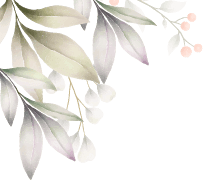
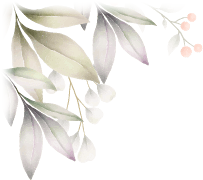
fix(layout): lock scroll on cover, feather flower borders to eliminate cut lines, scale down floral sizes, and apply luxury-01 widget entrance effects

diff --git a/app/components/RightSidebar.tsx b/app/components/RightSidebar.tsx
@@ -35,43 +35,47 @@ const InstagramIcon = ({ className = "w-3.5 h-3.5" }: { className?: string }) =>
   </svg>
 );
 
-// Reusable 4-Corner Floral Leaves matching the.invisimple.id/s01 exactly
-const SectionFloralCorners = () => (
+// Reusable 4-Corner Floral Leaves (Feathered edge, negative corner bleed, scaled down)
+const SectionFloralCorners = ({ 
+  size = "w-14 sm:w-16 md:w-18" 
+}: { 
+  size?: string;
+}) => (
   <>
-    {/* Top-Left: natural orientation with swaying animation */}
-    <div className="absolute top-0 left-0 pointer-events-none z-10 select-none animate-floral-tl">
+    {/* Top-Left: natural orientation with gentle anchored swaying */}
+    <div className="absolute -top-1.5 -left-1.5 pointer-events-none z-10 select-none animate-floral-tl">
       <img 
         src="/template/assets/asset-01-01.png" 
         alt="" 
         aria-hidden="true"
-        className="w-20 sm:w-24 md:w-28 pointer-events-none select-none" 
+        className={`${size} pointer-events-none select-none`} 
       />
     </div>
-    {/* Top-Right: flipped horizontally with swaying animation */}
-    <div className="absolute top-0 right-0 pointer-events-none z-10 select-none animate-floral-tr">
+    {/* Top-Right: flipped horizontally with gentle anchored swaying */}
+    <div className="absolute -top-1.5 -right-1.5 pointer-events-none z-10 select-none animate-floral-tr">
       <img 
         src="/template/assets/asset-01-01.png" 
         alt="" 
         aria-hidden="true"
-        className="w-20 sm:w-24 md:w-28 scale-x-[-1] pointer-events-none select-none" 
+        className={`${size} scale-x-[-1] pointer-events-none select-none`} 
       />
     </div>
-    {/* Bottom-Left: flipped vertically with swaying animation */}
-    <div className="absolute bottom-0 left-0 pointer-events-none z-10 select-none animate-floral-bl">
+    {/* Bottom-Left: flipped vertically with gentle anchored swaying */}
+    <div className="absolute -bottom-1.5 -left-1.5 pointer-events-none z-10 select-none animate-floral-bl">
       <img 
         src="/template/assets/asset-01-01.png" 
         alt="" 
         aria-hidden="true"
-        className="w-20 sm:w-24 md:w-28 scale-y-[-1] pointer-events-none select-none" 
+        className={`${size} scale-y-[-1] pointer-events-none select-none`} 
       />
     </div>
-    {/* Bottom-Right: flipped horizontally and vertically with swaying animation */}
-    <div className="absolute bottom-0 right-0 pointer-events-none z-10 select-none animate-floral-br">
+    {/* Bottom-Right: flipped horizontally and vertically with gentle anchored swaying */}
+    <div className="absolute -bottom-1.5 -right-1.5 pointer-events-none z-10 select-none animate-floral-br">
       <img 
         src="/template/assets/asset-01-01.png" 
         alt="" 
         aria-hidden="true"
-        className="w-20 sm:w-24 md:w-28 scale-x-[-1] scale-y-[-1] pointer-events-none select-none" 
+        className={`${size} scale-x-[-1] scale-y-[-1] pointer-events-none select-none`} 
       />
     </div>
   </>
@@ -283,6 +287,21 @@ export default function RightSidebar({
     };
   }, [isOpened]);
 
+  // Lock scroll completely on body & window while invitation is not yet opened
+  useEffect(() => {
+    if (!isOpened) {
+      document.body.style.overflow = "hidden";
+      document.documentElement.style.overflow = "hidden";
+    } else {
+      document.body.style.overflow = "";
+      document.documentElement.style.overflow = "";
+    }
+    return () => {
+      document.body.style.overflow = "";
+      document.documentElement.style.overflow = "";
+    };
+  }, [isOpened]);
+
   // Open invitation handler with smooth slide-up matching s01 closeCover()
   const handleOpenInvitation = () => {
     setIsOpened(true);
@@ -384,7 +403,9 @@ export default function RightSidebar({
   return (
     <div 
       ref={containerRef}
-      className="relative w-full md:w-[40%] lg:w-[35%] xl:w-[32%] min-h-[100dvh] md:h-[100dvh] md:overflow-y-auto no-scrollbar bg-[#F4ECE3] text-[#3C2A21] select-none"
+      className={`relative w-full md:w-[40%] lg:w-[35%] xl:w-[32%] h-[100dvh] ${
+        isOpened ? "overflow-y-auto" : "overflow-hidden"
+      } no-scrollbar bg-[#F4ECE3] text-[#3C2A21] select-none`}
       style={{
         backgroundImage: "url('/template/assets/eks-01-bg-01.jpg')",
         backgroundSize: "cover",
@@ -420,33 +441,33 @@ export default function RightSidebar({
           <div className="absolute inset-0 bg-gradient-to-t from-[#F4ECE3] via-[#F4ECE3]/35 to-transparent" />
         </div>
 
-        {/* Swaying Floral Corners on Cover (Top & Bottom) */}
-        <div className="absolute top-0 left-0 pointer-events-none z-10 select-none animate-floral-tl">
+        {/* Swaying Floral Corners on Cover (Top & Bottom) - Compact, Anchored, Feathered */}
+        <div className="absolute -top-1 -left-1 pointer-events-none z-10 select-none animate-floral-tl">
           <img 
             src="/template/assets/asset-01-01.png" 
             alt="Floral" 
-            className="w-24 sm:w-28 pointer-events-none select-none" 
+            className="w-14 sm:w-16 pointer-events-none select-none" 
           />
         </div>
-        <div className="absolute top-0 right-0 pointer-events-none z-10 select-none animate-floral-tr">
+        <div className="absolute -top-1 -right-1 pointer-events-none z-10 select-none animate-floral-tr">
           <img 
             src="/template/assets/asset-01-01.png" 
             alt="Floral" 
-            className="w-24 sm:w-28 scale-x-[-1] pointer-events-none select-none" 
+            className="w-14 sm:w-16 scale-x-[-1] pointer-events-none select-none" 
           />
         </div>
-        <div className="absolute bottom-0 left-0 pointer-events-none z-10 select-none animate-floral-bl">
+        <div className="absolute -bottom-1 -left-1 pointer-events-none z-10 select-none animate-floral-bl">
           <img 
             src="/template/assets/asset-01-01.png" 
             alt="Floral" 
-            className="w-28 sm:w-32 scale-y-[-1] pointer-events-none select-none" 
+            className="w-16 sm:w-18 scale-y-[-1] pointer-events-none select-none" 
           />
         </div>
-        <div className="absolute bottom-0 right-0 pointer-events-none z-10 select-none animate-floral-br">
+        <div className="absolute -bottom-1 -right-1 pointer-events-none z-10 select-none animate-floral-br">
           <img 
             src="/template/assets/asset-01-01.png" 
             alt="Floral" 
-            className="w-28 sm:w-32 scale-x-[-1] scale-y-[-1] pointer-events-none select-none" 
+            className="w-16 sm:w-18 scale-x-[-1] scale-y-[-1] pointer-events-none select-none" 
           />
         </div>
 
@@ -488,7 +509,9 @@ export default function RightSidebar({
       {/* ========================================================
           MAIN INVITATION CONTENT (Revealed underneath smoothly)
          ======================================================== */}
-      <div className="relative z-10 space-y-12 pb-32 pt-2">
+      <div className={`relative z-10 space-y-12 pb-32 pt-2 transition-opacity duration-1000 ${
+        isOpened ? "opacity-100" : "hidden pointer-events-none"
+      }`}>
 
         {/* 1. HERO / SAVE THE DATE SECTION */}
         <section id="hero" className="relative min-h-[100dvh] flex flex-col items-center justify-between px-6 pt-12 pb-16 text-center overflow-hidden">

diff --git a/app/[[...name]]/page.tsx b/app/[[...name]]/page.tsx
@@ -164,40 +164,40 @@ export default async function Home({ params, searchParams }: Props) {
           style={{ backgroundImage: "url('/template/assets/eks-01-bg-01.jpg')" }}
         />
 
-        {/* 4 Precise Floral Leaf Corners (100% matched to the.invisimple.id/s01) */}
+        {/* 4 Corner Floral Leaves (Feathered edge, negative corner bleed, scaled down) */}
         {/* Top-Left: natural orientation */}
-        <div className="absolute top-0 left-0 pointer-events-none z-10 select-none animate-floral-tl">
+        <div className="absolute -top-2 -left-2 pointer-events-none z-10 select-none animate-floral-tl">
           <img 
             src="/template/assets/asset-01-01.png" 
             alt="Floral" 
-            className="w-48 md:w-56 lg:w-64 xl:w-72 h-auto object-contain select-none" 
+            className="w-32 md:w-36 lg:w-40 xl:w-44 h-auto object-contain select-none" 
           />
         </div>
 
         {/* Top-Right: flipped horizontally */}
-        <div className="absolute top-0 right-0 pointer-events-none z-10 select-none animate-floral-tr">
+        <div className="absolute -top-2 -right-2 pointer-events-none z-10 select-none animate-floral-tr">
           <img 
             src="/template/assets/asset-01-01.png" 
             alt="Floral" 
-            className="w-48 md:w-56 lg:w-64 xl:w-72 h-auto object-contain select-none scale-x-[-1]" 
+            className="w-32 md:w-36 lg:w-40 xl:w-44 h-auto object-contain select-none scale-x-[-1]" 
           />
         </div>
 
         {/* Bottom-Left: flipped vertically */}
-        <div className="absolute bottom-0 left-0 pointer-events-none z-10 select-none animate-floral-bl">
+        <div className="absolute -bottom-2 -left-2 pointer-events-none z-10 select-none animate-floral-bl">
           <img 
             src="/template/assets/asset-01-01.png" 
             alt="Floral" 
-            className="w-48 md:w-56 lg:w-64 xl:w-72 h-auto object-contain select-none scale-y-[-1]" 
+            className="w-32 md:w-36 lg:w-40 xl:w-44 h-auto object-contain select-none scale-y-[-1]" 
           />
         </div>
 
         {/* Bottom-Right: flipped horizontally and vertically */}
-        <div className="absolute bottom-0 right-0 pointer-events-none z-10 select-none animate-floral-br">
+        <div className="absolute -bottom-2 -right-2 pointer-events-none z-10 select-none animate-floral-br">
           <img 
             src="/template/assets/asset-01-01.png" 
             alt="Floral" 
-            className="w-48 md:w-56 lg:w-64 xl:w-72 h-auto object-contain select-none scale-x-[-1] scale-y-[-1]" 
+            className="w-32 md:w-36 lg:w-40 xl:w-44 h-auto object-contain select-none scale-x-[-1] scale-y-[-1]" 
           />
         </div>
 

diff --git a/app/globals.css b/app/globals.css
@@ -245,63 +245,63 @@ body {
   font-family: "Plus Jakarta Sans", sans-serif !important;
 }
 
-/* Floral Sway / Noticeable Graceful Leaf Swing ("Goyang-Goyang") */
+/* Floral Sway / Graceful Corner Leaf Swing ("Goyang-Goyang" - anchored safely in corners) */
 @keyframes floralSwayTL {
   0%, 100% {
-    transform: rotate(-6deg) scale(1);
+    transform: rotate(-2.5deg) scale(1);
   }
   50% {
-    transform: rotate(8deg) scale(1.02);
+    transform: rotate(3.5deg) scale(1.02);
   }
 }
 
 @keyframes floralSwayTR {
   0%, 100% {
-    transform: rotate(6deg) scale(1);
+    transform: rotate(2.5deg) scale(1);
   }
   50% {
-    transform: rotate(-8deg) scale(1.02);
+    transform: rotate(-3.5deg) scale(1.02);
   }
 }
 
 @keyframes floralSwayBL {
   0%, 100% {
-    transform: rotate(6deg) scale(1);
+    transform: rotate(2.5deg) scale(1);
   }
   50% {
-    transform: rotate(-8deg) scale(1.02);
+    transform: rotate(-3.5deg) scale(1.02);
   }
 }
 
 @keyframes floralSwayBR {
   0%, 100% {
-    transform: rotate(-6deg) scale(1);
+    transform: rotate(-2.5deg) scale(1);
   }
   50% {
-    transform: rotate(8deg) scale(1.02);
+    transform: rotate(3.5deg) scale(1.02);
   }
 }
 
 .animate-floral-tl {
   transform-origin: top left !important;
-  animation: floralSwayTL 3s ease-in-out infinite !important;
+  animation: floralSwayTL 3.4s ease-in-out infinite !important;
   will-change: transform;
 }
 
 .animate-floral-tr {
   transform-origin: top right !important;
-  animation: floralSwayTR 3.3s ease-in-out infinite 0.3s !important;
+  animation: floralSwayTR 3.8s ease-in-out infinite 0.4s !important;
   will-change: transform;
 }
 
 .animate-floral-bl {
   transform-origin: bottom left !important;
-  animation: floralSwayBL 3.1s ease-in-out infinite 0.6s !important;
+  animation: floralSwayBL 3.6s ease-in-out infinite 0.8s !important;
   will-change: transform;
 }
 
 .animate-floral-br {
   transform-origin: bottom right !important;
-  animation: floralSwayBR 3.4s ease-in-out infinite 0.9s !important;
+  animation: floralSwayBR 4.0s ease-in-out infinite 1.2s !important;
   will-change: transform;
 }
